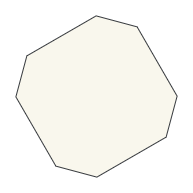
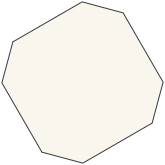
Losowe obrazki przeszkod

diff --git a/przeszkoda.cpp b/przeszkoda.cpp
@@ -2,25 +2,36 @@
 #include "oknogry.h"
 
 
-Przeszkoda::Przeszkoda(QGraphicsScene *s, int _x, int _v)
+Przeszkoda::Przeszkoda(QGraphicsScene *s, int _x, int _v, int typ)
 {
     // Ustawienie wartosci poczatkowych
     scena = s;
     posX = _x;
-    posY = -100;
+    posY = -150;
     speed = _v;
     move = 150;
 
     // Wczytanie i zaladowanie obrazka przeszkody
     pixmapItem = new QGraphicsPixmapItem();
-    if(pixmap.load(":/images/przeszkoda1.png")) {
-        pixmapItem->setPixmap(pixmap);
-        pixmapItem->setPos(posX, posY);
-        scena->addItem(pixmapItem);
+
+    switch(typ) {
+    case 1:
+        pixmap.load(":/images/przeszkoda1.png");
+    break;
+    case 2:
+        pixmap.load(":/images/przeszkoda2.png");
+    break;
+    case 3:
+        pixmap.load(":/images/przeszkoda3.png");
+    break;
+    case 4:
+        pixmap.load(":/images/przeszkoda4.png");
+    break;
     }
-    else {
-        qDebug() << "Nie wczytano pixmapy przeszkody";
-    }
+    pixmapItem->setPixmap(pixmap);
+    pixmapItem->setPos(posX, posY);
+    scena->addItem(pixmapItem);
+
 
 }
 

diff --git a/oknogry.cpp b/oknogry.cpp
@@ -228,7 +228,7 @@ void OknoGry::ustawStanPolaczenia(bool stan)
 }
 
 void OknoGry::stworzPrzeszkode() {
-    Przeszkoda *p = new Przeszkoda(scene, generator->bounded(0, 800), generator->bounded(5, 20));
+    Przeszkoda *p = new Przeszkoda(scene, generator->bounded(0, 800), generator->bounded(5, 20), generator->bounded(0, 5));
     tabPrzeszkod.append(p);
     scene->addItem(p);
     QObject::connect(p, SIGNAL(usunPrzeszkode(Przeszkoda*, bool)), this, SLOT(znajdzUsunPrzeszkode(Przeszkoda*, bool)));

diff --git a/przeszkoda.h b/przeszkoda.h
@@ -28,7 +28,7 @@ signals:
     void usunPrzeszkode(Przeszkoda *p, bool trafiona);
 
 public:
-    Przeszkoda(QGraphicsScene *s, int _x, int _v);
+    Przeszkoda(QGraphicsScene *s, int _x, int _v, int typ);
     QGraphicsPixmapItem *pixmapItem;
     QRectF boundingRect() const override;
     void paint(QPainter *painter, const QStyleOptionGraphicsItem *option, QWidget *widget) override ;
